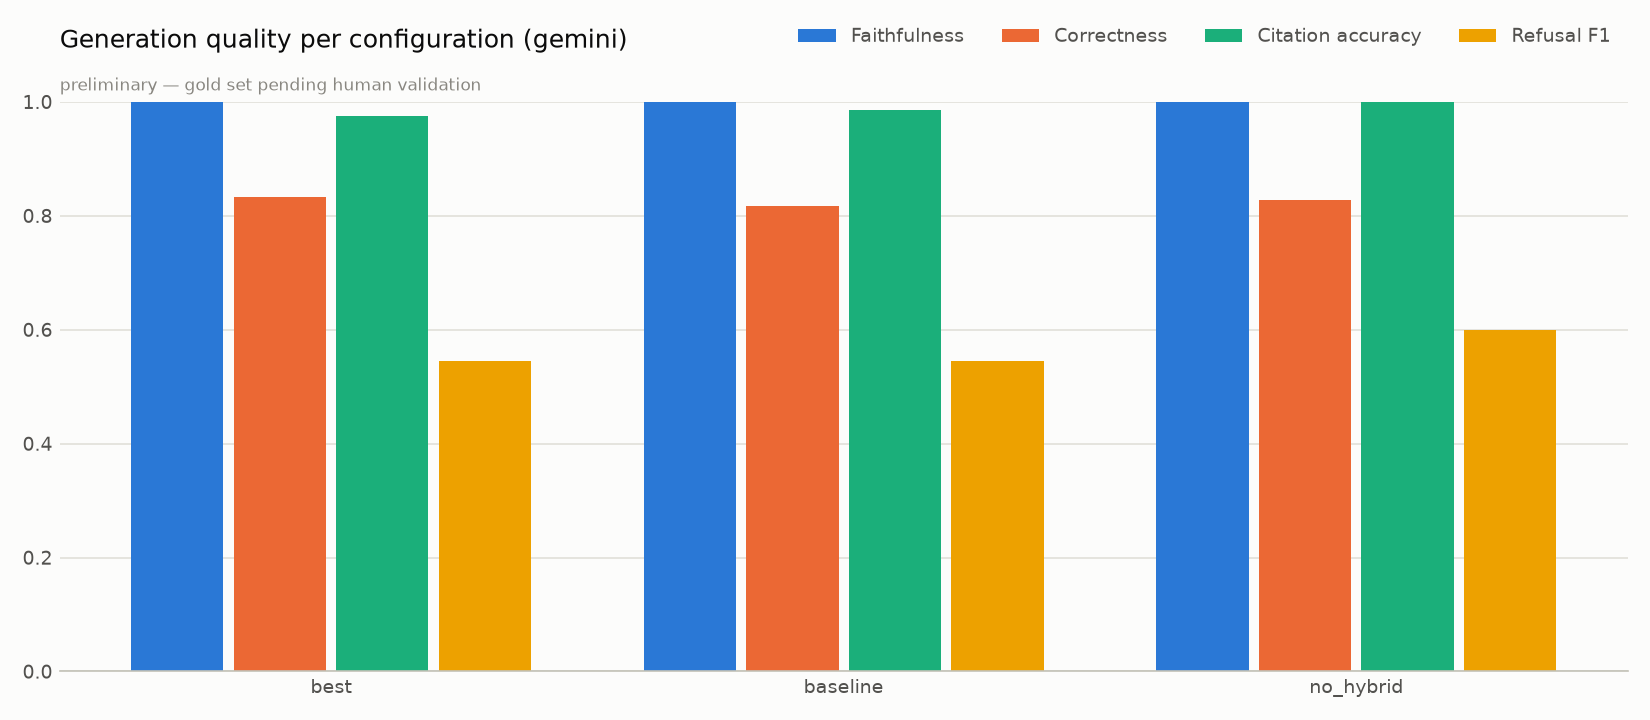
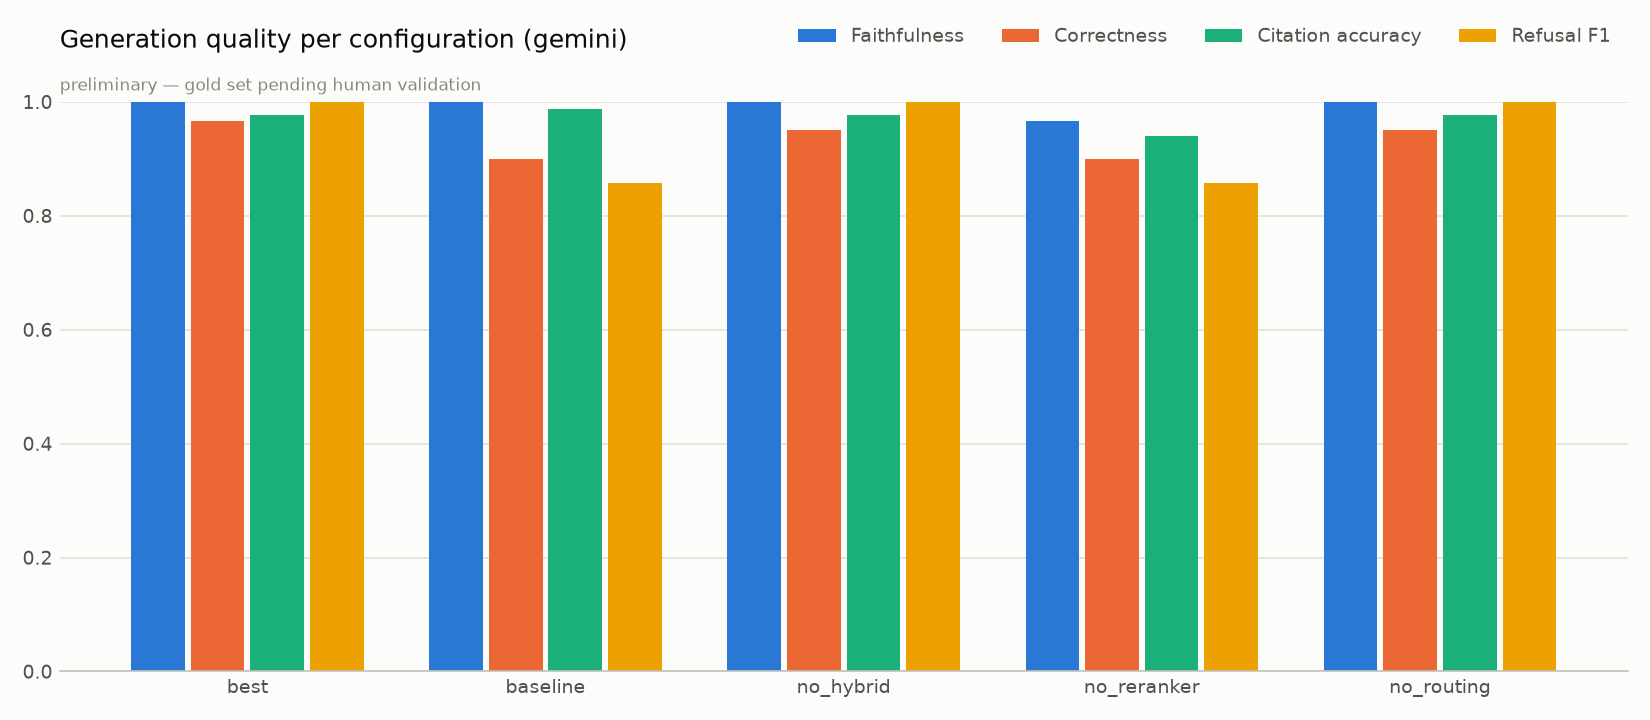
feat(eval): final generation run with the final defaults on all five configs
Gemini answers and judge for best, baseline, no_hybrid, no_reranker and no_routing with bge-reranker-v2-m3 (15/512, gate 0.40), soft routing, BM25 weight 0.5, router v2 and prompt v2. Report regenerated; README, architecture diagram, slide outline and progress log updated to the final defaults.

diff --git a/eval/make_report.py b/eval/make_report.py
@@ -1038,8 +1038,11 @@ def main() -> int:
         L += gtab + ["", "![generation gemini](figures/generation_gemini.png)", ""]
         L += [
             "Final defaults: bge-reranker-v2-m3, 15 candidates, 512 tokens, gate 0.40, soft "
-            "routing (weight 1.5), BM25 weight 0.5, router v2, prompt v2. Configurations not "
-            "listed are pending the Gemini free-tier daily quota.",
+            "routing (weight 1.5), BM25 weight 0.5, router v2, prompt v2. All five configurations "
+            "were generated and judged in one run with the same model (no fallback). Compared "
+            "with the previous round, false refusals drop from 4–6 to 0 for the reranker configs. "
+            "This run changed both the prompt (v2: answer the covered part instead of refusing) "
+            "and the reranker (v2-m3 instead of base), so the two effects are not separated.",
             "",
         ]
     for tag, label in (

diff --git a/eval/results/REPORT.md b/eval/results/REPORT.md
@@ -90,6 +90,22 @@ Rule: max refusal TPR with zero false refusals; ties -> middle threshold. Chosen
 
 ## Generation
 
+### Generation — final defaults — provider `gemini` (gemini-3.5-flash-lite) — *preliminary — gold set pending human validation*
+
+| Config | n | Faithfulness | Correctness | Citation acc. | Citation acc. (loose) | Gold cited | Not grounded | Refusal P | Refusal R | Refusal F1 | False refusals | Latency mean (s) | p95 (s) | Fallback |
+|---|---|---|---|---|---|---|---|---|---|---|---|---|---|---|
+| best | 30/30 | 1.00 | 0.97 | 0.98 | 0.98 | 0.89 | 0.00 | 1.00 | 1.00 | 1.00 | 0 | 9.1 | 18.8 | 0.00 |
+| baseline | 30/30 | 1.00 | 0.90 | 0.99 | 0.99 | 0.81 | 0.00 | 0.75 | 1.00 | 0.86 | 1 | 2.2 | 3.7 | 0.00 |
+| no_hybrid | 30/30 | 1.00 | 0.95 | 0.98 | 0.98 | 0.89 | 0.00 | 1.00 | 1.00 | 1.00 | 0 | 3.1 | 5.8 | 0.00 |
+| no_reranker | 30/30 | 0.97 | 0.90 | 0.94 | 0.94 | 0.85 | 0.04 | 0.75 | 1.00 | 0.86 | 1 | 5.9 | 10.3 | 0.00 |
+| no_routing | 30/30 | 1.00 | 0.95 | 0.98 | 0.98 | 0.89 | 0.00 | 1.00 | 1.00 | 1.00 | 0 | 2.9 | 5.8 | 0.00 |
+
+Faithfulness and correctness: LLM judge with a fixed 0 / 0.5 / 1 rubric (`eval/metrics.py`), judge = Gemini — **the same model that generated the answers**, so these two columns may carry self-preference bias; see the cross-judging section for the check. Citation accuracy = valid citations / all citations (strict: exact section among the sources; loose: also ancestors). Gold cited = answer cites ≥1 gold section.
+
+![generation gemini](figures/generation_gemini.png)
+
+Final defaults: bge-reranker-v2-m3, 15 candidates, 512 tokens, gate 0.40, soft routing (weight 1.5), BM25 weight 0.5, router v2, prompt v2. All five configurations were generated and judged in one run with the same model (no fallback). Compared with the previous round, false refusals drop from 4–6 to 0 for the reranker configs. This run changed both the prompt (v2: answer the covered part instead of refusing) and the reranker (v2-m3 instead of base), so the two effects are not separated.
+
 ### Generation — previous round (bge-reranker-base, 15 candidates, 512 tokens, gate 0.10, hard routing, BM25 weight 1.0, prompt v1) — provider `gemini` (gemini-3.5-flash-lite) — *preliminary — gold set pending human validation*
 
 > Run stopped early (quota): judge no_hybrid/o-02: All LLM providers failed:. Rows with n < n_expected are partial; re-run the same command to resume.
@@ -113,8 +129,6 @@ Faithfulness and correctness: LLM judge with a fixed 0 / 0.5 / 1 rubric (`eval/m
 | no_routing | 30/30 | 0.97 | 0.92 | 0.97 | 0.97 | 0.89 | 0.00 | 0.75 | 1.00 | 0.86 | 1 | 1.8 | 3.4 | 0.00 |
 
 Faithfulness and correctness: LLM judge with a fixed 0 / 0.5 / 1 rubric (`eval/metrics.py`), judge = Gemini — **the same model that generated the answers**, so these two columns may carry self-preference bias; see the cross-judging section for the check. Citation accuracy = valid citations / all citations (strict: exact section among the sources; loose: also ancestors). Gold cited = answer cites ≥1 gold section.
-
-_Generation evaluation not run yet._
 
 ### Real end-to-end latency (CPU laptop, no reranker cache)
 
@@ -151,6 +165,15 @@ Metrics that need no judge (same frozen answers):
 | groq (openai/gpt-oss-120b) | 0.98 | 0.67 | 0.75 | 1.00 | 0.86 | 1 |
 
 **Self-preference.** faithfulness: on average a judge scores its own model's answers -0.03 higher than the other judge does (Gemini judge on Gemini answers +0.00, Groq judge on Groq answers -0.06); correctness: on average a judge scores its own model's answers +0.00 higher than the other judge does (Gemini judge on Gemini answers +0.06, Groq judge on Groq answers -0.06). A positive value is a self-preference bias of that size; with 30 questions, a few hundredths is one or two answers, so only a gap that both judges agree on (same ranking of the two answer sets) should be trusted.
+
+## False refusals: gate or LLM?
+
+2 in-corpus questions were refused across the reported generation configurations (current defaults): **0 by the score gate**, **2 by the LLM** after it saw the sources. A gate refusal means retrieval found nothing above the threshold; an LLM refusal means the model judged the retrieved sources insufficient (typically one half of a cross-spec question was missing).
+
+| Config | Question | Type | Refused by | Gate score |
+|---|---|---|---|---|
+| `no_reranker` | `s23-01` | simple | LLM (gemini-3.5-flash-lite) | 0.664 |
+| `baseline` | `s23-01` | simple | LLM (gemini-3.5-flash-lite) | 0.664 |
 
 ## Reranker speed / quality benchmark (CPU)
 
@@ -230,8 +253,8 @@ Paired bootstrap on the MRR of `best` (10,000 resamples, seed 42):
 
 Selection rule (fixed before looking at generation): highest retrieval MRR of `best` with the default reranker (bge-reranker-v2-m3), ties broken in favour of the simpler or the required component.
 
-- **Routing mode: soft.** MRR 0.807 vs 0.770 for hard routing at the same BM25 weight. The gain comes from cross-spec questions the router sends to one spec: soft routing still lets chunks of the other spec into the 15 candidates (cross MRR 0.589 vs 0.459). Simple questions are unchanged or slightly better, because the 1.5× boost keeps the routed spec on top.
-- **BM25 weight: 0.5.** 0.807 vs 0.750 (1.0) and 0.801 (0.25). At full weight BM25 pushes keyword-matching but off-topic chunks into the reranker's candidate list; at 0.25 it barely contributes.
+- **Routing mode: soft.** MRR 0.807 vs 0.770 for hard routing at the same BM25 weight. The gain comes from cross-spec questions the router sends to one spec: soft routing still lets chunks of the other spec into the 15 candidates (cross MRR 0.589 vs 0.458, cross R@5 0.571 vs 0.429). Simple questions are unchanged (simple-23 MRR 0.816 vs 0.808, simple-24 0.950 both), because the 1.5× boost keeps the routed spec on top.
+- **BM25 weight: 0.5.** MRR 0.807 vs 0.750 (1.0) and 0.801 (0.25). At full weight BM25 helps cross questions a little (cross MRR 0.607, R@5 0.714) but costs the simple ones more (simple-23 MRR 0.716, simple-24 0.883); 0.5 keeps the simple questions intact; 0.25 is slightly lower on 24.501 (0.933).
 - **Hybrid: on.** With these settings `no_hybrid` ties exactly (MRR 0.807, cross MRR 0.587 vs 0.589). The tie is broken in favour of hybrid search: it is a required component of the assignment and BM25 is the component that matches exact identifiers (timers, cause numbers, section numbers) when the dense model misses them.
 
 None of these differences is statistically established on 27 questions (table above), so the choice is a defensible default, not a proven optimum. With bge-reranker-base the ranking differs (`no_hybrid` is best at 0.831), which is one more reason to read the numbers as configuration-specific.
@@ -305,23 +328,26 @@ Robust effects on this set: reranker (all else on), reranker (dense only). Every
 
 Route: TS 23.501 (architecture / stage 2 signals) · gate score 0.952 · sources: TS 23.501 §5.21.2.1, TS 23.501 §4.2.2, TS 23.501 §6.2.1, TS 23.501 §5.19.5.2, TS 23.501 §5.20, TS 23.501 §5.19.3 · judge: The answer accurately and completely lists the role and functionalities of the AMF based directly on the provided context.
 
-### Cross-spec question — `x-05`
+### Cross-spec question — `x-01`
 
-**Q:** How are user plane resources of existing PDU sessions re-activated with the service request procedure?
+**Q:** Describe the registration procedure and the NAS messages exchanged between the UE and the AMF.
 
 **Answer:**
 
-> To re-activate user plane resources of existing PDU sessions using the service request procedure, the following principles and actions apply according to the documents:
+> Based on the provided documents, the registration procedure and related NAS messages involve the following aspects:
 > 
-> * The UE includes the Uplink data status IE in the SERVICE REQUEST message [TS 24.501 §5.6.1.4.1].
-> * If the UE is not in NB-N1 mode, or if the UE is in NB-N1 mode and does not indicate a request to have user-plane resources established for a number of PDU sessions that exceeds the UE's maximum number of supported user-plane resources, the AMF shall indicate the SMF to re-establish the user-plane resources for the corresponding PDU sessions [TS 24.501 §5.6.1.4.1].
-> * The AMF includes the PDU session reactivation result IE in the SERVICE ACCEPT message to indicate the user-plane resources re-establishment result of the PDU sessions for which the UE requested to re-establish the user-plane resources [TS 24.501 §5.6.1.4.1].
-> * For a PDU session for LADN, the AMF determines the UE presence in LADN service area and forwards the UE presence in LADN service area towards the SMF [TS 24.501 §5.6.1.4.1].
-> * If the Allowed PDU session status IE is included in the SERVICE REQUEST message, the AMF notifies the SMF whether reactivation of user-plane resources for corresponding PDU session(s) associated with non-3GPP access can be performed or cannot be performed based on whether the corresponding PDU session IDs are indicated in the Allowed PDU session status IE (and whether supported user-plane resource limits are respected for UEs in NB-N1 mode) [TS 24.501 §5.6.1.4.1].
-> * If user-plane resources are successfully reactivated for a PDU session indicated by the UE in the Allowed PDU session status IE as allowed to be re-established over 3GPP access, the UE considers the corresponding PDU session to be associated with the 3GPP access, and the AMF and SMF update the associated access type [TS 24.501 §5.6.1.4.1].
-> * If user-plane resources cannot be established for a PDU session, the AMF includes the PDU session reactivation result IE in the SERVICE ACCEPT message indicating that they cannot be re-established, along with a PDU session reactivation result error cause IE with a specific 5GMM cause (e.g., #43 "LADN not available", #28 "restricted service area", #92 "insufficient user-plane resources for the PDU session", or #69 "insufficient resources for specific slice") depending on the reason provided by the SMF or determined by the AMF [TS 24.501 §5.6.1.4.1].
+> * **Initial NAS Messages for Registration:** The REGISTRATION REQUEST message is one of the initial NAS messages sent by the UE to establish an N1 NAS signalling connection (transitioning from 5GMM-IDLE to 5GMM-CONNECTED mode) [TS 24.501 §5.3.1.1]. 
+> * **Security Protection of REGISTRATION REQUEST:** 
+>  * If the UE has a valid current 5G NAS security context or native 5G NAS security context, it transmits the REGISTRATION REQUEST message integrity protected with that context and includes the corresponding ngKSI [TS 24.501 §4.4.2.5].
+>  * If the UE has no valid native 5G NAS security context during an inter-system change from S1 mode to N1 mode in 5GMM-IDLE mode, it sends the REGISTRATION REQUEST message without integrity protection and encryption [TS 24.501 §4.4.2.5].
+> * **AMF Handling and Security Establishment:**
+>  * Upon receiving the REGISTRATION REQUEST, if the verification of the message is successful, the AMF may reply with a REGISTRATION ACCEPT message (which is integrity protected and ciphered) or initiate a security mode control procedure [TS 24.501 §4.4.2.5].
+>  * If a REGISTRATION REQUEST message for initial registration fails the integrity check and is not for emergency services, the AMF authenticates the subscriber and initiates a security mode control procedure using a SECURITY MODE COMMAND message containing the Additional 5G security information IE with the RINMR bit set to "Retransmission of the initial NAS message requested" [TS 24.501 §4.4.4.3].
+>  * The AMF initiates the NAS security mode control procedure by sending a SECURITY MODE COMMAND message and starting timer T3560 [TS 24.501 §5.4.2.2].
+> 
+> *(Note: Detailed procedures regarding session management, connection management architecture details, and subsequent deregistration or service request steps are partially covered in the sources, but the specific step-by-step full flow of general registration beyond NAS security establishment and initial messaging is not fully detailed in the provided excerpts.)*
 
-Route: TS 24.501 (NAS / stage 3 signals) · gate score 0.995 · sources: TS 24.501 §5.6.1.4.2, TS 24.501 §5.6.1.4.1, TS 24.501 §5.6.1.4.2, TS 24.501 §5.5.1.3.4, TS 24.501 §5.6.3.3, TS 24.501 §5.6.1.1 · judge: The answer accurately explains how user plane resources of existing PDU sessions are re-activated using the service request procedure, fully supported by the provided context and consistent with the reference.
+Route: TS 24.501, TS 23.501 (cross-spec phrase) · gate score 0.995 · sources: TS 24.501 §4.4.2.5, TS 24.501 §5.3.1.1, TS 23.501 §8.2.2.1, TS 24.501 §4.4.4.3, TS 24.501 §5.4.2.2, TS 23.501 §5.3.3.1 · judge: The answer accurately describes the registration procedure and NAS messages based on the provided context, correctly citing the relevant specifications.
 
 ### Out-of-corpus question — `o-01`
 
@@ -331,7 +357,7 @@ Route: TS 24.501 (NAS / stage 3 signals) · gate score 0.995 · sources: TS 24.5
 
 > I could not find this information in the documents.
 
-Route: TS 24.501, TS 23.501 (no signal) · gate score 0.050 · sources: none · judge: Both the answer and reference correctly state that the information is not present in the provided context.
+Route: TS 24.501, TS 23.501 (no signal) · gate score 0.130 · sources: none · judge: Both the reference and the answer correctly state that the information is not available in the documents.
 
 ## Failure analysis
 
@@ -341,11 +367,8 @@ Route: TS 24.501, TS 23.501 (no signal) · gate score 0.050 · sources: none · 
 - `x-02` gold TS 23.501 §5.6.1; TS 24.501 §6.4.1 — route TS 24.501; top-3 retrieved: TS 24.501 §6.1.1, TS 24.501 §6.2.18, TS 24.501 §6.2.3; R@10 = 0.0
 - `x-07` gold TS 23.501 §5.10.1, §6.2.1; TS 24.501 §5.4.1, §5.4.2 — route TS 24.501; top-3 retrieved: TS 24.501 §4.4.2.5, TS 24.501 §4.4.2.5, TS 24.501 §4.4.2.5; R@10 = 1.0
 
-**Answers not judged fully correct (config `best`): 5**
+**Answers not judged fully correct (config `best`): 2**
 
-- `s23-07` correctness 0.0 faithfulness 1.0 — The answer refuses to answer because the information is missing from the context, but the reference contains the answer, making correctness 0. refused
-- `x-01` correctness 0.0 faithfulness 1.0 — The reference answer provides details on the registration procedure and NAS messages (such as REGISTRATION REQUEST, REGISTRATION ACCEPT, and REGISTRATION COMPLETE), but the assistant incorrectly refused to answer despite relevant information being available in the context/specs. refused
-- `x-02` correctness 0.0 faithfulness 1.0 — The answer refuses to answer, but the reference contains the information, and parts of the context and standard knowledge base allow for a partial or full answer. refused
-- `x-03` correctness 0.0 faithfulness 1.0 — The model refused to answer even though the context contains partial information about how the UE indicates the Requested NSSAI in registration messages, although details about the exact IE encoding come from the reference. refused
-- `x-04` correctness 0.0 faithfulness 1.0 — The reference answer provides a detailed explanation of the registration area and periodic registration update timer based on TS 23.501 and TS 24.501, whereas the assistant incorrectly refused to answer. refused
+- `x-02` correctness 0.5 faithfulness 1.0 — The answer is faithful to the context, but incomplete regarding the full set of exchanged 5GSM messages compared to the reference. Removed citations not among the retrieved sources: [TS 24.501 §6.3]
+- `x-03` correctness 0.5 faithfulness 1.0 — The answer accurately reflects the provided context regarding how the UE indicates network slices, but states that the encoding is not covered in the context, missing the details present in the reference from TS 24.501 about the NSSAI information element type and length.
 

diff --git a/README.md b/README.md
@@ -21,7 +21,7 @@ flowchart LR
     R --> S[Sparse: BM25 + telecom tokenizer]
     D --> F[RRF fusion]
     S --> F
-    F --> X[Reranker<br/>bge-reranker-base]
+    F --> X[Reranker<br/>bge-reranker-v2-m3]
     X --> G{Score gate}
     G -- too low --> N[Refusal sentence]
     G -- ok --> K[Top-k + per-spec quota]
@@ -44,9 +44,9 @@ Pinned in `config.yaml`; provenance (URL, download date, SHA-256, size, docx nam
 
 - Python **3.11** (3.12 should also work; 3.14 is not recommended with torch).
 - ~8 GB RAM; CPU only is fine (CUDA/MPS used automatically if present).
-- ~4 GB disk for the Hugging Face models (bge-m3 2.3 GB and bge-reranker-base 1.1 GB,
-  downloaded automatically on first use; bge-reranker-v2-m3, 2.3 GB, only if you switch back
-  to the multilingual reranker).
+- ~6 GB disk for the Hugging Face models (bge-m3 2.3 GB and bge-reranker-v2-m3 2.3 GB,
+  downloaded automatically on first use; bge-reranker-base, 1.1 GB, only for the fast demo
+  profile `configs/fast.yaml`).
 - Docker (optional, default vector store) — otherwise Qdrant's local on-disk mode is used.
 - API keys: Google Gemini (primary LLM); Groq (free tier, first fallback) and/or xAI Grok
   (second fallback). One key is enough to run.
@@ -153,17 +153,17 @@ false-refusal breakdown, statistical caution, failure analysis). Bonuses:
 [`eval/results/BONUS.md`](eval/results/BONUS.md).
 
 **Retrieval** — 27 in-corpus questions, top-10 ranking after fusion / reranking; a hit is the
-gold clause or one of its sub-clauses. Current defaults: router v2, `bge-reranker-base`, 15
-fused candidates, 512 tokens.
+gold clause or one of its sub-clauses. Current defaults: router v2, soft routing (weight 1.5),
+BM25 weight 0.5 in RRF, `bge-reranker-v2-m3`, 15 fused candidates, 512 tokens.
 
 | Config | Hybrid | Reranker | Routing | R@1 | R@5 | R@10 | MRR |
 |---|---|---|---|---|---|---|---|
-| best | ✓ | ✓ | ✓ | 0.704 | 0.815 | 0.852 | 0.747 |
-| no_hybrid | ✗ | ✓ | ✓ | 0.778 | 0.852 | 0.926 | 0.817 |
-| no_reranker | ✓ | ✗ | ✓ | 0.481 | 0.815 | 0.889 | 0.622 |
-| no_routing | ✓ | ✓ | ✗ | 0.593 | 0.852 | 0.889 | 0.691 |
-| hybrid_only | ✓ | ✗ | ✗ | 0.407 | 0.778 | 0.889 | 0.574 |
-| reranker_only | ✗ | ✓ | ✗ | 0.704 | 0.889 | 0.926 | 0.785 |
+| best | ✓ | ✓ | ✓ | 0.741 | 0.889 | 0.926 | 0.807 |
+| no_hybrid | ✗ | ✓ | ✓ | 0.741 | 0.889 | 0.926 | 0.807 |
+| no_reranker | ✓ | ✗ | ✓ | 0.481 | 0.889 | 0.889 | 0.648 |
+| no_routing | ✓ | ✓ | ✗ | 0.667 | 0.889 | 0.926 | 0.770 |
+| hybrid_only | ✓ | ✗ | ✗ | 0.481 | 0.852 | 0.889 | 0.627 |
+| reranker_only | ✗ | ✓ | ✗ | 0.704 | 0.889 | 0.926 | 0.788 |
 | routing_only | ✗ | ✗ | ✓ | 0.630 | 0.889 | 0.926 | 0.730 |
 | baseline | ✗ | ✗ | ✗ | 0.556 | 0.889 | 0.926 | 0.677 |
 
@@ -172,42 +172,39 @@ Faithfulness and correctness are judged **by the same model that wrote the answe
 cross-judging table in `eval/results/REPORT.md` (Gemini and Groq answers × Gemini and Groq
 judges) is the check for self-preference bias.
 
-| Config | Settings | Faithfulness | Correctness | Citation acc. | Gold cited | Refusal F1 | False refusals |
-|---|---|---|---|---|---|---|---|
-| best | current | 1.00 | 0.80 | 0.97 | 0.74 | 0.50 | 6 |
-| baseline | current | 1.00 | 0.82 | 0.99 | 0.78 | 0.55 | 5 |
-| no_hybrid | current | 1.00 | 0.83 | 1.00 | 0.74 | 0.60 | 4 |
-| best | previous | 0.97 | 0.88 | 0.98 | 0.81 | 0.75 | 2 |
-| baseline | previous | 1.00 | 0.83 | 0.99 | 0.78 | 0.60 | 4 |
-| no_hybrid | previous | 1.00 | 0.92 | 0.97 | 0.93 | 0.75 | 2 |
-| no_reranker | previous | 1.00 | 0.77 | 0.97 | 0.67 | 0.50 | 6 |
-| no_routing | previous | 0.97 | 0.92 | 0.97 | 0.89 | 0.86 | 1 |
+| Config | Faithfulness | Correctness | Citation acc. | Gold cited | Refusal F1 | False refusals |
+|---|---|---|---|---|---|---|
+| **best** | 1.00 | **0.97** | 0.98 | 0.89 | **1.00** | 0 |
+| baseline | 1.00 | 0.90 | 0.99 | 0.81 | 0.86 | 1 |
+| no_hybrid | 1.00 | 0.95 | 0.98 | 0.89 | 1.00 | 0 |
+| no_reranker | 0.97 | 0.90 | 0.94 | 0.85 | 0.86 | 1 |
+| no_routing | 1.00 | 0.95 | 0.98 | 0.89 | 1.00 | 0 |
 
-"Previous" = router v1, `bge-reranker-v2-m3`, 30 candidates, 1,024 tokens (complete run);
-`no_reranker` / `no_routing` with the current settings are pending the next Gemini quota
-window. `baseline` is unaffected by the changes, so its two rows (0.82 vs 0.83) show the
-run-to-run noise of LLM + judge.
+Final defaults: `bge-reranker-v2-m3` (15 candidates, 512 tokens, gate 0.40), soft routing,
+BM25 weight 0.5, router v2, prompt v2; all five configs generated and judged in one run
+(2026-11-23), no provider fallback. Earlier rounds (previous defaults) are kept in REPORT.md.
 
 What the numbers say:
-- **The reranker matters most for ranking**: with all other components on it adds MRR +0.13
-  (95% paired-bootstrap CI [+0.02, +0.24]); with dense-only retrieval +0.11 (CI touches 0). It also decides refusals: all 3 out-of-corpus questions are
-  refused in every configuration, before generation when the reranker score is below the
-  calibrated gate.
-- **BM25 fusion hurts when the reranker is on** (MRR −0.07, CI [−0.17, −0.00]): BM25 candidates
-  take slots in the small candidate pool sent to the reranker. Dense + reranker
-  (`no_hybrid`) is the best retrieval setting.
-- **Speed vs quality**: the CPU benchmark replaced `bge-reranker-v2-m3` (30 candidates, 1,024
-  tokens) by `bge-reranker-base` (15, 512): MRR 0.734 → 0.747, latency **48 s → 7.6 s** per
-  answer. Answer correctness of `best` moved 0.88 → 0.80: five questions lost a key chunk from
-  the 6 sources and were refused by the LLM, two improved. The paired change (−0.08, CI
-  [−0.23, +0.05]) is not established on 30 questions, but the mechanism is real; set
-  `reranker.model: BAAI/bge-reranker-v2-m3` back if answer quality matters more than speed.
-- **Simple questions are solved** (R@5 = 1.0 for both specs with the reranker); **cross-spec
-  questions remain the weak spot**: router v2 routes 2/7 of them to both specs (v1: 1/7)
-  without changing recall, and all false refusals come from the LLM, not the gate, mostly on
-  cross questions.
-- With n = 27, one question = 0.037 of recall: most other differences are within noise (see
-  "Statistical caution" in the report).
+- **The reranker is the component that matters**: it is the only robust retrieval gain (MRR
+  +0.16 with everything else on, 95% paired-bootstrap CI [+0.06, +0.26]), and removing it
+  costs the most in generation (correctness 0.97 → 0.90, citation accuracy 0.98 → 0.94, one
+  false refusal, one ungrounded answer).
+- **Refusals are clean**: all 3 out-of-corpus questions are refused by the score gate before
+  the LLM is called (reranker score ≤ 0.13 vs ≥ 0.66 for in-corpus questions); the full
+  pipeline has no false refusal. Prompt v2 (answer the covered part, refuse only when no
+  source is relevant) together with the v2-m3 reranker took `best` from 6 false refusals to 0.
+- **Faithfulness 1.00 and citation accuracy 0.98** in the best config: every factual sentence
+  is grounded, and the citation check removes the rare citation to a non-retrieved section.
+- **Hybrid and routing**: with the reranker and soft routing on, removing BM25 or routing
+  costs one question each (0.97 → 0.95), which is within noise. They are kept because BM25
+  catches exact identifiers and routing helps cross-spec questions reach both specs.
+- **Simple questions are solved** (R@5 = 1.0 for both specs); **cross-spec questions remain
+  the weak spot** (R@5 0.57, the 2 answers not judged fully correct are cross questions).
+- **Speed**: about 13 s of CPU reranking per answer with v2-m3; the fast profile
+  (`configs/fast.yaml`, `bge-reranker-base`) brings end-to-end latency to about 7.6 s for a
+  live demo, at some cost in answer quality.
+- With n = 27 in-corpus questions, one question = 0.037 of recall: read small differences as
+  noise (see "Statistical caution" in the report).
 
 ### Re-running the evaluation after validating the test set
 
@@ -263,11 +260,11 @@ Corpus variants are selected with `RAG_CONFIG` and get their own `data/processed
 | Contextual header in every chunk (`[TS 24.501 §5.5.1.2.4 Title \| parents…]`) | both BM25 and the embedder see the spec, clause number and parent titles |
 | bge-m3 dense embeddings | strong multilingual retriever (Chen et al. 2024), 8k context, enables French questions |
 | BM25 with a telecom tokenizer | exact identifiers (`T3510`, `cause #9`, `S-NSSAI`, `5.5.1.2.4`) are where dense models are weakest |
-| Reciprocal Rank Fusion (k = 60) | parameter-free fusion of heterogeneous scores |
-| Cross-encoder reranker + score gate | `bge-reranker-base` reorders the 15 best fused candidates (512 tokens each); chosen by a CPU speed/quality benchmark (`eval/results/reranker_bench.csv`: 3.9 s instead of 43.8 s per answer for bge-reranker-v2-m3 with 30 candidates, MRR within 0.02). Its calibrated score decides when to refuse *before* calling the LLM |
-| Rule-based router (v2) | the two specs are complementary (Stage 2 vs Stage 3); filtering by spec removes look-alike clauses. v2 sends a question to both specs when it mixes architecture and NAS signals or asks about a procedure and its messages; tuned only on `tests/test_router.py`; `retrieval.router_version: 1` restores the original rules |
+| Reciprocal Rank Fusion (k = 60), BM25 weight 0.5 | rank-based fusion of heterogeneous scores; the BM25 list counts half (MRR 0.807 vs 0.750 at weight 1.0) so keyword-only matches do not crowd the reranker's 15 candidates |
+| Cross-encoder reranker + score gate | `bge-reranker-v2-m3` (multilingual) reorders the 15 best fused candidates (512 tokens each): the CPU benchmark (`eval/results/reranker_bench.csv`) cut reranking from 43.8 s (30 candidates, 1,024 tokens) to 12.8 s per answer with no MRR loss. `bge-reranker-base` (3.9 s) is kept as the fast demo profile `configs/fast.yaml`; it was the default for one round but lost answer correctness (0.88 → 0.80), so the default went back to v2-m3. Its calibrated score decides when to refuse *before* calling the LLM |
+| Rule-based router (v2), soft routing | the two specs are complementary (Stage 2 vs Stage 3). Soft routing searches both specs and boosts the routed spec's chunks 1.5× in RRF, so a wrong route no longer removes the other spec (MRR 0.807 vs 0.770 for hard filtering). v2 sends a question to both specs when it mixes architecture and NAS signals or asks about a procedure and its messages; tuned only on `tests/test_router.py`; `retrieval.router_version: 1` restores the original rules |
 | Gemini primary, Groq then Grok fallbacks | free-tier rate limits and outages; providers without a key are skipped; a 429 waits for the API's Retry-After before retrying or falling back; every answer records the provider/model actually used. Default model `gemini-3.5-flash-lite` (flash models: 20 requests/day on the free tier); `llm.max_tokens` = 8192 because Gemini 3.x thinking tokens share the output budget |
-| Calibrated score gate | reranker threshold 0.10 (bge-reranker-base; 0.45 for bge-reranker-v2-m3) / dense threshold 0.25 chosen by `eval.run_retrieval_eval` (max refusal rate with zero false refusals), stored in `config.yaml` |
+| Calibrated score gate | reranker threshold 0.40 (bge-reranker-v2-m3 @512: out-of-corpus max 0.13, in-corpus min 0.66; 0.15 for bge-reranker-base in `configs/fast.yaml`) / dense threshold 0.55 chosen by `eval.run_retrieval_eval` (max refusal rate with zero false refusals), stored in `config.yaml` |
 | Citation check | removes citations to sections that were not retrieved, flags ungrounded answers |
 | No LangChain / LlamaIndex | every component is a small swappable module, which is what the ablations need |
 

diff --git a/docs/presentation_outline.md b/docs/presentation_outline.md
@@ -39,17 +39,21 @@ slides after validation.
 ## 7. Hybrid retrieval + RRF
 - Dense bge-m3 (1024-d, Qdrant cosine) + BM25 with telecom tokenizer (`cause_9`, `t3510`,
   `s-nssai`/`snssai`, section numbers).
-- RRF k = 60; the top 15 fused candidates go to the reranker.
-- Finding: with the reranker on, BM25 fusion *lowers* MRR (−0.07, 95% CI excludes 0): BM25
-  candidates take slots in the small reranker pool. Dense + reranker is the best retrieval.
+- Weighted RRF k = 60 (dense 1, BM25 0.5); the top 15 fused candidates go to the reranker.
+- Finding: at full weight BM25 pushes keyword-only matches into the reranker's 15-slot pool
+  (MRR 0.750); weight 0.5 → 0.807, which ties dense + reranker (`no_hybrid`, 0.807). Hybrid is
+  kept for exact identifiers (timers, cause numbers); the difference is within noise.
 
 ## 8. Reranker and routing
-- Cross-encoder reranker; its best score drives the refusal gate (calibrated threshold).
-- CPU benchmark (`figures`/table from `eval/results/reranker_bench.csv`): bge-reranker-v2-m3
-  with 30 candidates × 1,024 tokens = 43.8 s per answer; bge-reranker-base with 15 × 512 =
-  3.9 s, MRR 0.747 vs 0.734 → new default (end-to-end 48 s → 7.6 s). Trade-off: answer
-  correctness of `best` 0.88 → 0.80 (−0.08, CI [−0.23, +0.05]: not established, but 5
-  questions lost a key chunk).
+- Cross-encoder reranker; its best score drives the refusal gate (threshold 0.40: out-of-
+  corpus max 0.13, in-corpus min 0.66 → 3/3 refused before the LLM, 0 false refusals).
+- Only robust ranking gain: MRR +0.16 with everything else on (95% CI [+0.06, +0.26]).
+- CPU benchmark (`eval/results/reranker_bench.csv`): bge-reranker-v2-m3 with 30 candidates ×
+  1,024 tokens = 43.8 s per answer → 15 × 512 = 12.8 s, same MRR. bge-reranker-base (3.9 s)
+  was tried as default but answer correctness fell 0.88 → 0.80 → kept only as the fast demo
+  profile (`configs/fast.yaml`).
+- Soft routing: search both specs, boost the routed spec 1.5× in RRF → MRR 0.807 vs 0.770
+  for hard filtering (cross MRR 0.59 vs 0.46): a wrong route no longer hides the other spec.
 - Rule-based router v2 (architecture AND NAS signals → both; "procedure … messages" → both),
   tuned only on `tests/test_router.py` (12 new cross-spec questions): exact route 0.74 →
   0.78, cross questions routed to both 1/7 → 2/7; retrieval unchanged → cross-spec remains
@@ -80,23 +84,30 @@ slides after validation.
 - 8 retrieval configurations (hybrid × reranker × routing); generation on 5 configurations.
 
 ## 13. Results (preliminary — gold set pending human validation)
-- Retrieval (`figures/retrieval_ablation.png`), current defaults, R@5 / MRR: best 0.815 /
-  0.747; dense + reranker (no_hybrid) 0.852 / 0.817; no_reranker 0.815 / 0.622; baseline
-  (dense only) 0.889 / 0.677. Simple questions R@5 = 1.0; cross questions ≈ 0.4.
-- Generation (`figures/generation_gemini.png`, gemini-3.5-flash-lite answers + judge): best
-  faithfulness 1.00, correctness 0.80, citation accuracy 0.97; all 3 out-of-corpus questions
-  refused; all false refusals are LLM refusals (gate refused none), mostly cross questions.
-- Cross-judge 2×2 (Gemini vs Groq answers × Gemini vs Groq judges) on the common judged
-  questions: no self-preference larger than one question so far (table in REPORT.md).
-- Latency (CPU): 7.6 s per answer (rerank 4.1 s, LLM 3.3 s), 3.0 s without the reranker.
+- Retrieval (`figures/retrieval_ablation.png`), final defaults, R@5 / MRR: best 0.889 /
+  0.807; no_hybrid 0.889 / 0.807; no_reranker 0.889 / 0.648; no_routing 0.889 / 0.770;
+  baseline (dense only) 0.889 / 0.677. Simple questions R@5 = 1.0; cross questions 0.57.
+- Generation (`figures/generation_gemini.png`, gemini-3.5-flash-lite answers + judge, 30
+  questions × 5 configs, one run): best faithfulness 1.00, correctness 0.97, citation
+  accuracy 0.98, refusal F1 1.00, 0 false refusals; no_reranker 0.90 / 0.94 / 0.86;
+  baseline 0.90 / 0.99 / 0.86.
+- All 3 out-of-corpus questions refused by the score gate before the LLM (scores 0.003–0.13
+  vs ≥ 0.66 in corpus).
+- Cross-judge 2×2 (Gemini vs Groq answers × Gemini vs Groq judges), on an earlier frozen
+  answer set (router v1) and only 9 common questions (Groq daily token cap): judge gaps
+  ≤ 0.06, no consistent self-preference (table in REPORT.md).
+- Latency (CPU): ≈ 13 s of reranking with v2-m3; fast profile (bge-reranker-base) 7.6 s per
+  answer end to end; 3.0 s without the reranker.
 
 ## 14. Analysis
-- Reranker = the only robust ranking gain (MRR +0.13 with everything else on) and the refusal
-  signal; but its candidate pool size and model trade latency against answer quality.
+- Reranker = the only robust ranking gain (MRR +0.16, CI [+0.06, +0.26]) and the refusal
+  signal; removing it costs the most in generation (correctness −0.07, citation acc. −0.04).
+- Prompt v2 (answer the covered part, refuse only if nothing is relevant) + v2-m3 reranker:
+  false refusals 6 → 0 in `best` compared with the previous round.
 - Structural chunks + contextual headers make simple questions easy (R@5 = 1.0).
-- BM25 helps exact identifiers without reranker, but hurts in the reranker's small pool.
-- Cross-spec questions: routing rules alone do not fix them; the LLM refuses half-covered
-  questions → query decomposition per spec is the next step.
+- BM25 must be down-weighted (0.5) so it does not crowd the reranker's 15-candidate pool.
+- Cross-spec questions: still the weak spot (both remaining partial answers are cross
+  questions) → query decomposition per spec is the next step.
 - Statistical caution: n = 27, one question = 0.037 of recall; most differences are noise.
 
 ## 15. Limits and perspectives

diff --git a/PROGRESS.md b/PROGRESS.md
@@ -313,6 +313,26 @@ Docker available (Qdrant default), API keys present in `.env` (never printed or 
   2026-11-23). Generation (a) v2-m3, (b) base, (c) ablations resume then.
 - Groq answers for the final best config running in the background (daily token cap).
 
+## Final run (2026-11-23) — project complete
+- Generation with the final defaults (bge-reranker-v2-m3 15/512, gate 0.40, soft routing,
+  BM25 w 0.5, router v2, prompt v2), Gemini `gemini-3.5-flash-lite` for answers and judge,
+  5 configs × 30 questions in one run, no fallback (transient Gemini 503s absorbed by retries):
+
+| Config | Faith. | Correct. | Cit. acc. | Refusal F1 | False refusals |
+|---|---|---|---|---|---|
+| best | 1.00 | 0.97 | 0.98 | 1.00 | 0 |
+| baseline | 1.00 | 0.90 | 0.99 | 0.86 | 1 |
+| no_hybrid | 1.00 | 0.95 | 0.98 | 1.00 | 0 |
+| no_reranker | 0.97 | 0.90 | 0.94 | 0.86 | 1 |
+| no_routing | 1.00 | 0.95 | 0.98 | 1.00 | 0 |
+
+- Out-of-corpus: 3/3 refused by the gate (scores 0.003–0.13), no LLM call.
+- REPORT.md regenerated; README results / technical choices, architecture diagram and slide
+  outline updated to the final defaults (they still described bge-reranker-base / gate 0.10).
+- 136 tests pass, ruff clean.
+- Not re-run (kept as documented in REPORT.md / BONUS.md): Groq cross-judge (n = 9, earlier
+  answer set), fast-profile generation, bonuses on the previous defaults.
+
 ## Open issues
 - Cross-spec questions are the main failure mode (routing + retrieval), see REPORT.md.
 - Rel-17 generation bonus partial (quota) — resumable.
@@ -320,10 +340,6 @@ Docker available (Qdrant default), API keys present in `.env` (never printed or 
 ## Blocked / needs human
 - **Test set validation**: all 30 items `verified: false` (`eval/testset_review.md`); every
   reported number is preliminary until then.
-- **Gemini free-tier quota** (500 requests/day for gemini-3.5-flash-lite): finish the
-  generation table with
-  `python -m eval.run_generation_eval --provider gemini --configs no_reranker,no_routing`
-  then `python -m eval.make_report` (≈ 120 requests).
 - **Groq free-tier daily token cap** (200k tokens/day for openai/gpt-oss-120b): the Groq
   judge pass and the last Groq answers (x-06, x-07) trickle in; resume with
   `python -m eval.run_cross_judge --judge groq` and the Groq generation command in the README.

diff --git a/docs/architecture.md b/docs/architecture.md
@@ -22,7 +22,7 @@ flowchart TD
     R --> S["BM25 top 50, spec filter"]
     D --> F["Reciprocal Rank Fusion<br/>k = 60 → top 15"]
     S --> F
-    F --> X["Cross-encoder reranker<br/>bge-reranker-base, 512 tokens (sigmoid)"]
+    F --> X["Cross-encoder reranker<br/>bge-reranker-v2-m3, 15 candidates, 512 tokens (sigmoid)"]
     X --> G{"Score gate<br/>max rerank ≥ threshold?"}
     G -- no --> REF["I could not find this information<br/>in the documents."]
     G -- yes --> K["Final top-k = 6<br/>≥2 per spec on cross routes<br/>adjacent parts merged"]
